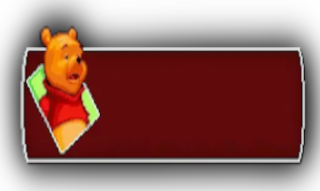
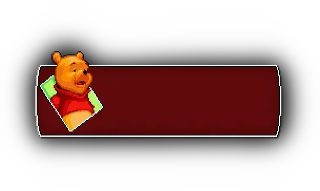
modify resources and remove useless variables

diff --git a/src/states.cpp b/src/states.cpp
@@ -105,7 +105,6 @@ void GameState::loadGfx()
 	keyboard_fg = IMG_Load(GFX_PATH "keyboard_fg.png");
 	letter_select = IMG_Load(GFX_PATH "digit_selection.png");
 	check_select = IMG_Load(GFX_PATH "rules_selection.png");
-	word_definition_bg = IMG_Load(GFX_PATH "worddefbg.png");
 	font = TTF_OpenFont(GFX_PATH "DejaVuSansMono.ttf", 12);
 }
 
@@ -129,8 +128,6 @@ void GameState::unloadGfx()
 	letter_select = nullptr;
 	SDL_FreeSurface(check_select);
 	check_select = nullptr;
-	SDL_FreeSurface(word_definition_bg);
-	word_definition_bg = nullptr;
 	TTF_CloseFont(font);
 	font = nullptr;
 }
@@ -156,7 +153,7 @@ void GameState::loadDictionary(int letternum)
 	std::cout << "Loaded " << dict.size() << " words." << std::endl;
 }
 
-static int callback(void* data, int argc, char** argv, char** azColName)
+static int sqlite3QuerySelectCallback(void* data, int argc, char** argv, char** azColName)
 {
 	fprintf(stderr, "%s: ", (const char*)data);
 
@@ -186,7 +183,7 @@ void GameState::loadWinningWordDefinition()
 		std::cout << "Opened Database Successfully" << std::endl;
 	}
 
-	int rc = sqlite3_exec(db, sql.c_str(), callback, (void*)data.c_str(), NULL);
+	int rc = sqlite3_exec(db, sql.c_str(), sqlite3QuerySelectCallback, (void*)data.c_str(), NULL);
 	if (rc != SQLITE_OK)
 	{
 		std::cerr << "Error SELECT " << std::endl;
@@ -342,13 +339,13 @@ void GameState::draw()
 
 		SDL_Surface *text = TTF_RenderUTF8_Blended(font, "Not this time...", (SDL_Color){ 255, 255, 255 });
 		dst.x = 104 + (180 - text->w) / 2;
-		dst.y += 91 - 16;
+		dst.y += 91 - 20;
 		SDL_BlitSurface(text, NULL, screen, &dst);
 		SDL_FreeSurface(text);
 
 		text = TTF_RenderUTF8_Blended(font, "The winning word is", (SDL_Color){ 255, 255, 255 });
 		dst.x = 104 + (180 - text->w) / 2;
-		dst.y += 17;
+		dst.y += 13;
 		SDL_BlitSurface(text, NULL, screen, &dst);
 		SDL_FreeSurface(text);
 
@@ -360,8 +357,8 @@ void GameState::draw()
 		if (!word_definition_first.empty())
 		{
 			text = TTF_RenderUTF8_Blended(font, "Press A to check definition", (SDL_Color) { 255, 255, 255 });
-			dst.x = 104 + (180 - text->w) / 2;
-			dst.y += 20;
+			dst.x = 90 + (180 - text->w) / 2;
+			dst.y += 17;
 			SDL_BlitSurface(text, NULL, screen, &dst);
 			SDL_FreeSurface(text);
 		}
@@ -372,7 +369,7 @@ void GameState::draw()
 		{
 			dst.x = 0;
 			dst.y = 0;
-			SDL_BlitSurface(word_definition_bg, NULL, screen, &dst);
+			SDL_BlitSurface(bg, NULL, screen, &dst);
 			SDL_Surface* text = nullptr;
 			int i = 0;
 			std::string temp = "";

diff --git a/inc/states.hpp b/inc/states.hpp
@@ -58,7 +58,6 @@ private:
 	SDL_Surface *check_select = nullptr;
 	SDL_Surface *keyboard_bg = nullptr;
 	SDL_Surface *keyboard_fg = nullptr;
-	SDL_Surface* word_definition_bg = nullptr;
 	char letters[MAX_WRONG_GUESSES][MAX_WORD_SIZE];
 	BoxType bts[MAX_WRONG_GUESSES][MAX_WORD_SIZE];
 	int wrong_guesses = 0;
@@ -66,7 +65,7 @@ private:
 	int word_size = 5;
 	int keyx = 0;
 	int keyy = 0;
-	std::string winning_word;
+	int active_definition = 0;
 	std::string word_to_guess;
 	std::set<std::string> dict;
 	std::set<char> greens;
